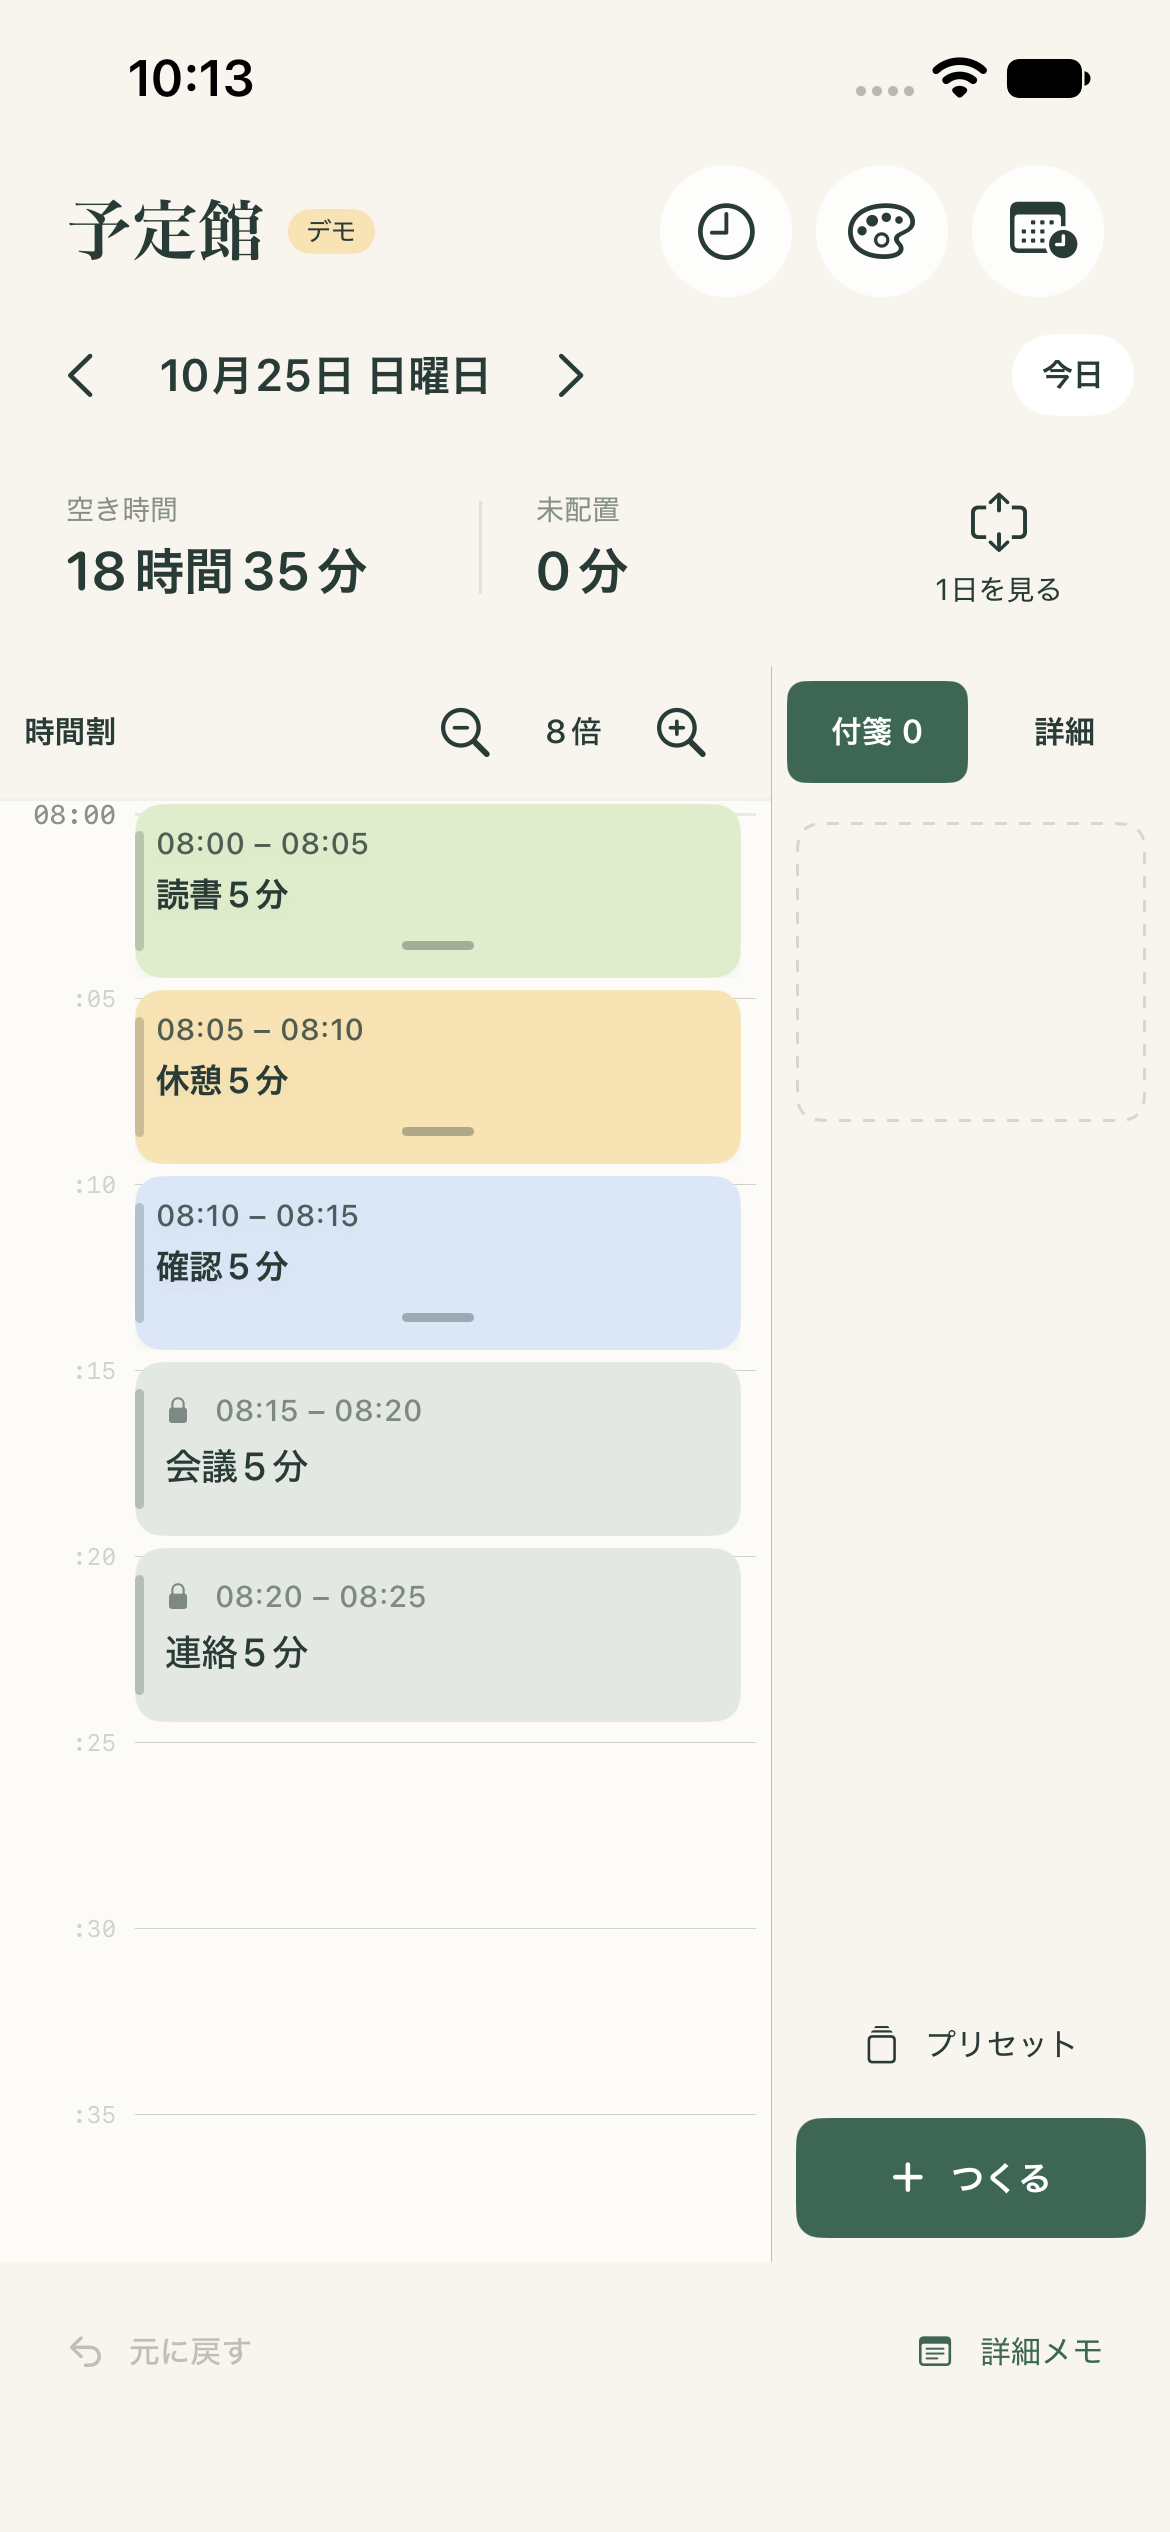
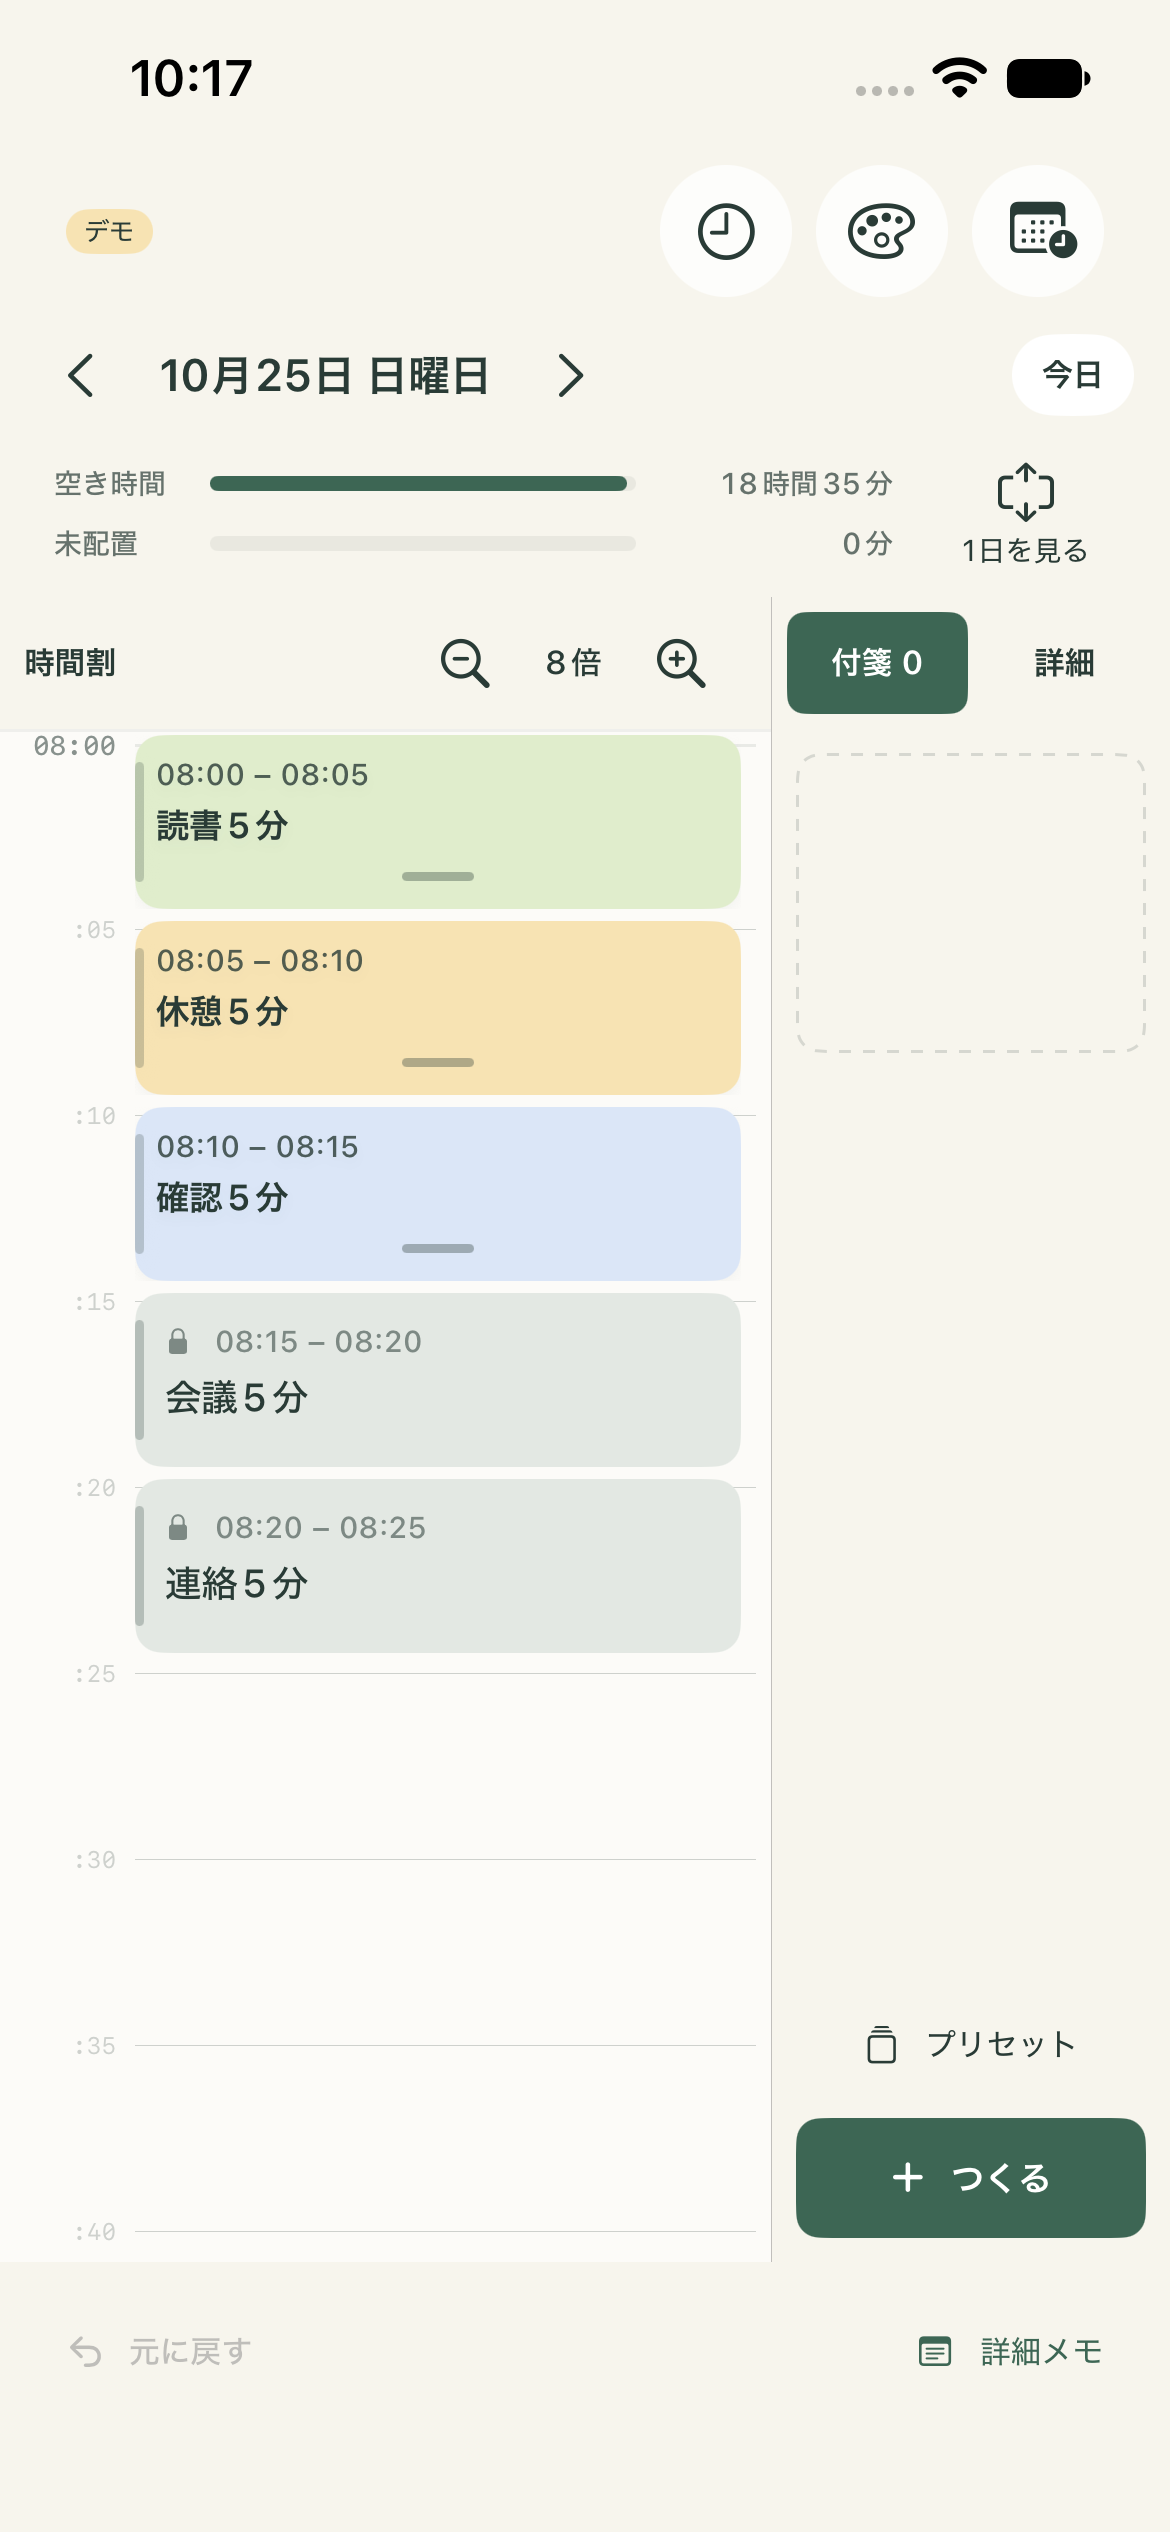
Simplify planner header and show time totals as horizontal bars

Changed region(s): [[0.0308, 0.1872, 0.9538, 0.6864], [0.0615, 0.0312, 0.2154, 0.1248], [0.2462, 0.0624, 0.3385, 0.1248]]

diff --git a/ios/Yoteikan/PlannerView.swift b/ios/Yoteikan/PlannerView.swift
@@ -187,7 +187,6 @@ struct PlannerView: View {
     }
     private var header: some View {
         HStack {
-            Text("予定館").font(.system(size: 22, weight: .semibold, design: .serif))
             if plans.demo {
                 Text("デモ").font(.system(size: 9)).padding(.horizontal, 6).padding(.vertical, 2)
                     .background(tones[1], in: Capsule())
@@ -220,16 +219,26 @@ struct PlannerView: View {
             .accessibilityElement(children: .contain).accessibilityIdentifier("dayNavigation")
     }
     private func stats(compact: Bool) -> some View {
-        HStack(spacing: 0) {
-            stat("空き時間", durationText(plans.hours.totalMinutes - occupied), compact: compact)
-            Rectangle().fill(ink.opacity(0.10)).frame(width: 1, height: 31)
-            stat("未配置", durationText(inbox.reduce(0) { $0 + $1.minutes }), compact: compact)
-            Spacer(minLength: 0)
-            Button { overview.toggle() } label: { VStack(spacing: compact ? 2 : 5) { Image(systemName: overview ? "plus.magnifyingglass" : "rectangle.expand.vertical").font(.system(size: 17)); Text(overview ? "拡大する" : "1日を見る").font(.system(size: 10)) }.frame(width: 70, height: compact ? 34 : 55) }.accessibilityIdentifier("zoomToggle")
-        }.padding(.horizontal, 22).padding(.vertical, compact ? 4 : 12)
+        HStack(spacing: 14) {
+            VStack(spacing: compact ? 5 : 8) {
+                timeBar("空き時間", minutes: plans.hours.totalMinutes - occupied, color: accent, identifier: "freeTimeBar")
+                timeBar("未配置", minutes: inbox.reduce(0) { $0 + $1.minutes }, color: Color(red: 0.73, green: 0.55, blue: 0.24), identifier: "unplacedTimeBar")
+            }
+            Button { overview.toggle() } label: { VStack(spacing: 2) { Image(systemName: overview ? "plus.magnifyingglass" : "rectangle.expand.vertical").font(.system(size: 17)); Text(overview ? "拡大する" : "1日を見る").font(.system(size: 10)) }.frame(width: 60, height: 44) }.accessibilityIdentifier("zoomToggle")
+        }.padding(.horizontal, 18).padding(.vertical, compact ? 2 : 6)
     }
-    private func stat(_ title: String, _ value: String, compact: Bool) -> some View {
-        VStack(alignment: .leading, spacing: compact ? 2 : 4) { Text(title).font(.system(size: compact ? 9 : 10)).foregroundStyle(ink.opacity(0.55)); Text(value).font(.system(size: compact ? 15 : 18, weight: .semibold, design: .rounded)) }.frame(maxWidth: .infinity, alignment: .leading).padding(.leading, title == "未配置" ? 18 : 0)
+    private func timeBar(_ title: String, minutes: Int, color: Color, identifier: String) -> some View {
+        HStack(spacing: 8) {
+            Text(title).frame(width: 44, alignment: .leading)
+            GeometryReader { proxy in
+                Capsule().fill(ink.opacity(0.07))
+                    .overlay(alignment: .leading) {
+                        Capsule().fill(color).frame(width: proxy.size.width * min(1, max(0, CGFloat(minutes) / CGFloat(plans.hours.totalMinutes))))
+                    }
+            }.frame(height: 5).accessibilityHidden(true)
+            Text(durationText(minutes)).monospacedDigit().frame(width: 78, alignment: .trailing)
+        }.font(.system(size: 10, weight: .medium)).foregroundStyle(ink.opacity(0.7))
+            .accessibilityElement(children: .contain).accessibilityIdentifier(identifier).accessibilityValue(durationText(minutes))
     }
     private var zoomControls: some View {
         HStack(spacing: 0) {

diff --git a/ios/YoteikanUITests/YoteikanUITests.swift b/ios/YoteikanUITests/YoteikanUITests.swift
@@ -6,7 +6,11 @@ final class YoteikanUITests: XCTestCase {
     func launch(_ args: [String] = ["--demo"]) { app = XCUIApplication(); app.launchArguments = args; app.launch(); XCTAssertTrue(app.buttons["presetsButton"].waitForExistence(timeout: 10)) }
     func shot(_ name: String) { let attachment = XCTAttachment(screenshot: app.screenshot()); attachment.name = name; attachment.lifetime = .keepAlways; add(attachment) }
     func test01DemoAndPresets() {
-        launch(); shot("01-day-planner")
+        launch()
+        XCTAssertFalse(app.staticTexts["予定館"].exists)
+        XCTAssertEqual(app.descendants(matching: .any).matching(identifier: "freeTimeBar").firstMatch.value as? String, "15時間30分")
+        XCTAssertEqual(app.descendants(matching: .any).matching(identifier: "unplacedTimeBar").firstMatch.value as? String, "1時間5分")
+        shot("01-day-planner")
         app.buttons["showStickyPool"].tap(); app.buttons["presetsButton"].tap()
         XCTAssertTrue(app.buttons["preset-読書"].waitForExistence(timeout: 3)); app.buttons["preset-読書"].tap()
         XCTAssertEqual(app.buttons["preset-読書"].value as? String, "1枚追加済み"); shot("02-presets")

diff --git a/docs/design.md b/docs/design.md
@@ -19,7 +19,7 @@
 | 領域 | 内容 |
 |---|---|
 | ヘッダー | 計画の時間帯、色の名前設定、カレンダー設定、日付切り替え、今日へ戻る |
-| 計画の目安 | 設定した時間帯の空き時間と、未配置付箋の合計時間・枚数 |
+| 計画の目安 | 空き時間と未配置時間を2本の横棒と小さな時間表示で表す |
 | 終日予定 | 時間割の上部に表示し、空き時間は減らさない |
 | 左：時間割 | 固定予定と配置済み付箋。付箋の高さで所要時間を表す |
 | 中央：詳細メモ | 選択中の付箋のメモ。編集・保存に対応 |
@@ -35,6 +35,8 @@
 中央・右・別画面のメモは選択中の付箋に紐づく。下書きは表示の切り替えや付箋の選び直しでも保持し、「メモを保存」で端末に保存する。メモの変更は予定時刻・所要時間・プリセットを変えず、Undoに対応する。保存前の下書きは再起動で破棄する。
 
 ## 操作と制約
+
+画面上部にアプリ名の見出しは置かず、時間帯・色・カレンダーの操作を残す。空き時間と未配置時間の棒は、設定した計画時間全体を共通の基準とする。空き時間は固定予定と配置済み付箋の占有時間を差し引き、未配置時間はその日の未配置付箋を合計する。未配置が計画時間を超える場合は棒を全幅で止め、時間の数値は実際の合計を表示する。0分の棒は背景のみとなる。
 
 | 操作 | 結果 |
 |---|---|

diff --git a/docs/verification.md b/docs/verification.md
@@ -2,7 +2,15 @@
 
 2026年10月25日。iPhone 17eシミュレーター / iOS 27.0で確認しました。
 
-拡大率・短時間予定に対応し、ユニットテスト17件・UI操作テスト21件の計38件の成功を確認しました（追加・再実行を含む）。スクリーンショット抽出・一覧作成ツールはGoで実装しています。Pythonへの依存はありません。
+前回の拡大率・短時間予定までに、ユニットテスト17件・UI操作テスト21件の計38件の成功を確認しました（追加・再実行を含む）。今回の上部表示変更では関連するUI操作4件を再確認しています。スクリーンショット抽出・一覧作成ツールはGoで実装しています。Pythonへの依存はありません。
+
+## 上部の見出しと時間表示を簡素化
+
+- 「予定館」の見出しを削除し、設定ボタンと日付操作を保持。
+- 空き時間・未配置時間を2本の細い横棒と小さな時間表示へ変更。
+- デモの空き時間15時間30分・未配置1時間5分を確認。
+- 時間帯変更による再計算、横画面の3ゾーン、5分予定の拡大・移動・伸縮を再確認。
+- SimpleBars.xcresultに関連UI4件の結果を保存し、縦画面・横画面・8倍表示の画像を目視確認。
 
 ## 時間割の拡大率と5分予定
 

diff --git a/README.md b/README.md
@@ -2,12 +2,13 @@
 
 朝に1日の予定を組み立てる、iPhone用のタイムボクシングアプリです。カレンダーの固定予定を土台に、「読書・30分」のような付箋を空き時間へ配置します。
 
-<img src="docs/screenshots/18-two-zone-planner.png" width="300" alt="左に時間割、右に付箋と詳細の切り替えがある予定館">
+<img src="docs/screenshots/01-day-planner.png" width="300" alt="時間の横棒グラフと、左に時間割・右に付箋がある画面">
 
 ## できること
 
 - 内容・所要時間・色・メモ付きの付箋を作成。
 - 左の時間割・右の付箋置き場で操作。横画面では中央に詳細メモを表示。
+- 空き時間と未配置時間は、小さな時間表示を添えた横棒グラフで確認。
 - 色と名前を自由に追加・編集・削除。付箋とプリセットで共通利用。
 - 長押しドラッグで配置し、選択後は右上の↕をドラッグして開始時刻を変更。下端のつまみで延長・短縮。
 - 変更するのは触っている1枚だけ。ほかの付箋や会議は自動で動かない。

diff --git a/docs/screenshots/README.md b/docs/screenshots/README.md
@@ -2,7 +2,7 @@
 
 iPhone 17eシミュレーター / iOS 27.0でXCTestを使って実際に操作し、2026年10月25日に撮影しました。デモ表記付きの画面はサンプル計画、カレンダー画面はEventKitに登録した検証用予定です。
 
-画面1〜21は拡大率追加時の全体確認で撮影しました。縦2分割・詳細メモ・横3分割・右側の詳細表示、時間帯設定、移動つまみ、日付スワイプ、色の追加・編集・削除を含みます。画面22〜23は表示位置と短時間予定の領域を修正した最終確認の画面です。
+画面1・2・16・17・20・22・23は、アプリ名の見出しを外し、時間の横棒グラフに変更した確認画面です。そのほかは拡大率追加時の確認画面です。縦2分割・詳細メモ・横3分割・右側の詳細表示、時間帯設定、移動つまみ、日付スワイプ、色の追加・編集・削除を含みます。
 
 ## 1日の計画
 
